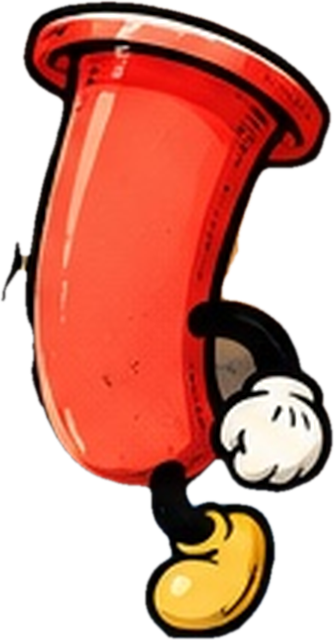
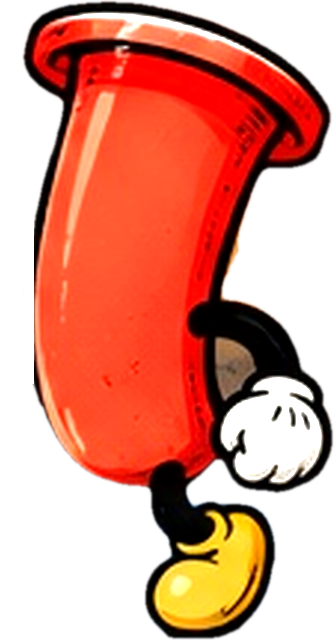
Mais brilho: luvas brancas, reflexos nos tubos, faíscas, varredura de luz; corrige corações no cartão de moedas
Claude-Session: https://claude.ai/code/session_017JExktLGjq1Linh47ddrdQ

diff --git a/css/style.css b/css/style.css
@@ -209,7 +209,7 @@ button.coin-pill { cursor: pointer; }
 
 /* ---------- 3. puzzle ---------- */
 #view-game { padding-bottom: max(2.5cqw, env(safe-area-inset-bottom)); }
-.game-top { position: relative; z-index: 2; display: grid; grid-template-columns: auto 1fr 1.35fr 1.5fr; gap: 2cqw; align-items: stretch; padding: 3.5cqw 3cqw 0; }
+.game-top { position: relative; z-index: 2; display: grid; grid-template-columns: auto 1fr 1.3fr 1.6fr; gap: 2cqw; align-items: stretch; padding: 3.5cqw 3cqw 0; }
 .game-nav { display: flex; flex-direction: column; justify-content: space-between; align-items: center; gap: 1.5cqw; }
 .hud-card, .hud-wallet { border: 3.5px solid var(--ink); border-radius: 3.2cqw; box-shadow: 0 3px 0 var(--ink), inset 0 2px 0 rgba(255,255,255,.28); }
 .hud-card { display: flex; flex-direction: column; align-items: center; justify-content: center; padding: 1.4cqw .8cqw; min-width: 0; background: linear-gradient(180deg, #3a79d8, var(--blue-dark)); color: #fff; }
@@ -218,7 +218,8 @@ button.coin-pill { cursor: pointer; }
 .hud-wallet { display: flex; flex-direction: column; justify-content: center; gap: 1.2cqw; padding: 1.6cqw 1.8cqw; background: linear-gradient(180deg, #3a2412, #1b1109); min-width: 0; }
 .wallet-coins { display: flex; align-items: center; justify-content: space-between; gap: 1cqw; padding: 0; background: none; border: 0; color: #fff; font: 400 5.4cqw/1 var(--display); }
 .wallet-coins b { flex: 1; text-align: left; font-weight: 400; font-variant-numeric: tabular-nums; }
-.wallet-lives { display: flex; justify-content: center; gap: .6cqw; padding: 0; background: none; border: 0; }
+.wallet-lives { display: flex; justify-content: space-between; gap: 2px; width: 100%; padding: 0; background: none; border: 0; }
+.wallet-lives .heart { flex: 1 1 0; min-width: 0; width: auto; height: auto; aspect-ratio: 1; max-width: 5.2cqw; }
 .heart { width: 4.8cqw; height: 4.8cqw; stroke: var(--ink); stroke-width: 2.4px; stroke-linejoin: round; paint-order: stroke; }
 .heart.full { color: #ff3b2a; }
 .heart.empty { color: #5d4d3b; }
@@ -432,4 +433,69 @@ canvas.confetti { position: absolute; inset: 0; width: 100%; height: 100%; z-ind
 @media (prefers-reduced-motion: reduce) {
   *, *::before, *::after { animation: none !important; transition-duration: .01ms !important; }
   .pow-burst { opacity: 1; transform: translate(-50%, -50%) rotate(-5deg); animation: none !important; }
+}
+
+/* ==========================================================================
+   BRILHO — reflexos, faíscas e varreduras de luz (desligados com reduce-motion)
+   ========================================================================== */
+@keyframes sheen { 0% { transform: translateX(-130%) skewX(-22deg); } 55%, 100% { transform: translateX(260%) skewX(-22deg); } }
+@keyframes twinkle { 0%, 100% { transform: scale(0) rotate(0); opacity: 0; } 50% { transform: scale(1) rotate(90deg); opacity: 1; } }
+@keyframes glowPulse { 50% { filter: drop-shadow(0 0 14px rgba(255, 214, 64, .95)) drop-shadow(0 .8cqw 0 rgba(27,17,9,.35)); } }
+
+/* varredura de luz nos botões principais e fichas */
+.btn-big, .level-tile:not(.locked), .buy-btn, .hud-card { position: relative; overflow: hidden; }
+.btn-big::before, .buy-btn::before, .level-tile:not(.locked)::before, .hud-card::before {
+  content: ''; position: absolute; top: -10%; bottom: -10%; left: 0; width: 38%; pointer-events: none;
+  background: linear-gradient(100deg, transparent, rgba(255, 255, 255, .75), transparent);
+  transform: translateX(-130%) skewX(-22deg); animation: sheen 3.6s ease-in-out infinite;
+}
+.buy-btn::before { animation-duration: 4.4s; animation-delay: 1s; }
+.level-tile:not(.locked)::before { animation-delay: .6s; animation-duration: 5s; }
+.hud-card::before { animation-duration: 6s; animation-delay: 2s; opacity: .6; }
+.btn-big > *, .buy-btn > * { position: relative; }
+
+/* brilho extra nos botões redondos e ícones */
+.round-btn::before { content: ''; position: absolute; top: 7%; left: 14%; width: 48%; height: 26%; border-radius: 50%; background: linear-gradient(180deg, rgba(255,255,255,.95), rgba(255,255,255,0)); pointer-events: none; }
+.round-btn .ico { position: relative; }
+
+/* logotipo e títulos com luz */
+.logo { filter: drop-shadow(0 0 14px rgba(255, 200, 40, .55)); }
+#view-home .logo { animation: glowPulse 3s ease-in-out infinite; }
+.ribbon h2, .ribbon h3 { text-shadow: 0 1px 0 rgba(255, 255, 255, .55); }
+
+/* mascotes mais vivos */
+.home-mascot, .win-mascots img, .fail-mascot img { filter: saturate(1.12) brightness(1.04) drop-shadow(0 .8cqw 0 rgba(27, 17, 9, .35)) drop-shadow(0 0 10px rgba(255, 255, 255, .25)); }
+
+/* tubos: vidro com reflexos e blocos de cor com brilho de verniz */
+.glass { background: linear-gradient(90deg, rgba(255,255,255,.92), rgba(225,242,255,.38) 34%, rgba(255,255,255,.2) 62%, rgba(255,255,255,.7)); }
+.glass::before { content: ''; position: absolute; z-index: 4; right: 12%; top: 26px; bottom: 30%; width: 2px; border-radius: 2px; background: rgba(255, 255, 255, .8); pointer-events: none; }
+.seg { box-shadow: inset 0 3px 0 rgba(255, 255, 255, .55), inset 0 -4px 0 rgba(0, 0, 0, .16); }
+.seg::before { content: ''; position: absolute; left: 12%; top: 10%; width: 46%; height: 26%; border-radius: 40%; background: linear-gradient(180deg, rgba(255,255,255,.85), rgba(255,255,255,.05)); }
+.seg::after { content: ''; position: absolute; right: 12%; top: 14%; width: 9%; height: 9%; border-radius: 50%; background: rgba(255, 255, 255, .9); }
+.tube.selected { filter: drop-shadow(0 0 9px #fff2a0) drop-shadow(0 0 3px #ffd84d) drop-shadow(0 3px 0 rgba(27,17,9,.4)); }
+.tube.solved { filter: drop-shadow(0 0 8px rgba(255, 200, 40, .9)); animation: glowPulse 1.8s ease-in-out infinite; }
+.tube.solved::after { content: ''; position: absolute; z-index: 5; left: 50%; top: -14px; width: 18px; height: 18px; margin-left: -9px; background: #fff7b0; clip-path: polygon(50% 0, 62% 38%, 100% 50%, 62% 62%, 50% 100%, 38% 62%, 0 50%, 38% 38%); animation: twinkle 1.6s ease-in-out infinite; }
+
+/* faíscas decorativas */
+.sparkles { position: absolute; inset: 0; pointer-events: none; z-index: 1; overflow: hidden; }
+.sparkles i { position: absolute; width: 5cqw; height: 5cqw; background: #fffbe0; filter: drop-shadow(0 0 6px #ffe27a);
+  clip-path: polygon(50% 0, 62% 38%, 100% 50%, 62% 62%, 50% 100%, 38% 62%, 0 50%, 38% 38%); animation: twinkle 2.4s ease-in-out infinite; }
+.sparkles i:nth-child(odd) { width: 3.4cqw; height: 3.4cqw; }
+.sparkles i:nth-child(1) { left: 12%; top: 46%; animation-delay: 0s; } .sparkles i:nth-child(2) { left: 80%; top: 40%; animation-delay: .5s; }
+.sparkles i:nth-child(3) { left: 46%; top: 52%; animation-delay: 1s; } .sparkles i:nth-child(4) { left: 24%; top: 66%; animation-delay: 1.5s; }
+.sparkles i:nth-child(5) { left: 70%; top: 62%; animation-delay: .8s; } .sparkles i:nth-child(6) { left: 90%; top: 20%; animation-delay: 1.9s; }
+.sparkles i:nth-child(7) { left: 6%; top: 24%; animation-delay: 1.2s; } .sparkles i:nth-child(8) { left: 56%; top: 30%; animation-delay: .3s; }
+#view-home .sparkles, .win .sparkles { z-index: 1; }
+
+/* moedas e estrelas com cintilação */
+svg.ico.coin, .stars-row .ico.on, .win-star-top, .level-tile .stars .ico.on { filter: drop-shadow(0 0 4px rgba(255, 214, 64, .9)); }
+.stars-row .ico.on { animation: starPop .6s cubic-bezier(.3, 1.6, .5, 1) both, glowPulse 2s 1s ease-in-out infinite; }
+.reward-line .ico.coin { animation: coinSpin 1.6s ease-in-out infinite; }
+@keyframes coinSpin { 0%, 100% { transform: scaleX(1); } 50% { transform: scaleX(.25); } }
+.meta-fill { box-shadow: inset 0 3px 0 rgba(255, 255, 255, .45); }
+.board { box-shadow: 0 4px 0 var(--ink), inset 0 0 0 3px rgba(255, 255, 255, .5), inset 0 14px 28px rgba(255, 255, 255, .45); }
+
+@media (prefers-reduced-motion: reduce) {
+  .sparkles i { animation: none !important; opacity: .9; transform: scale(1); }
+  .btn-big::before, .buy-btn::before, .level-tile::before, .hud-card::before { display: none; }
 }

diff --git a/index.html b/index.html
@@ -51,6 +51,7 @@
   <section class="screen" id="view-home" aria-label="Tela inicial">
     <img class="scene" src="assets/cenario-oficina.jpg" alt="" aria-hidden="true">
     <div class="scene-shade" aria-hidden="true"></div>
+    <div class="sparkles" aria-hidden="true"><i></i><i></i><i></i><i></i><i></i><i></i><i></i><i></i></div>
     <div class="home-top">
       <button class="streak-pill" id="streakBanner" hidden type="button">
         <svg class="ico"><use href="#i-star"/></svg><span id="streakText"></span>
@@ -212,6 +213,7 @@
   <!-- ====================================================== 4. VITÓRIA -->
   <section class="screen overlay win" id="view-win" aria-label="Nível concluído" hidden>
     <div class="sunburst" aria-hidden="true"></div>
+    <div class="sparkles" aria-hidden="true"><i></i><i></i><i></i><i></i><i></i><i></i><i></i><i></i></div>
     <div class="win-content">
       <svg class="win-star-top" aria-hidden="true"><use href="#i-star"/></svg>
       <div class="ribbon"><svg viewBox="0 0 340 84" preserveAspectRatio="none" aria-hidden="true"><use href="#ribbon-shape"/></svg><h2>NÍVEL CONCLUÍDO!</h2></div>
